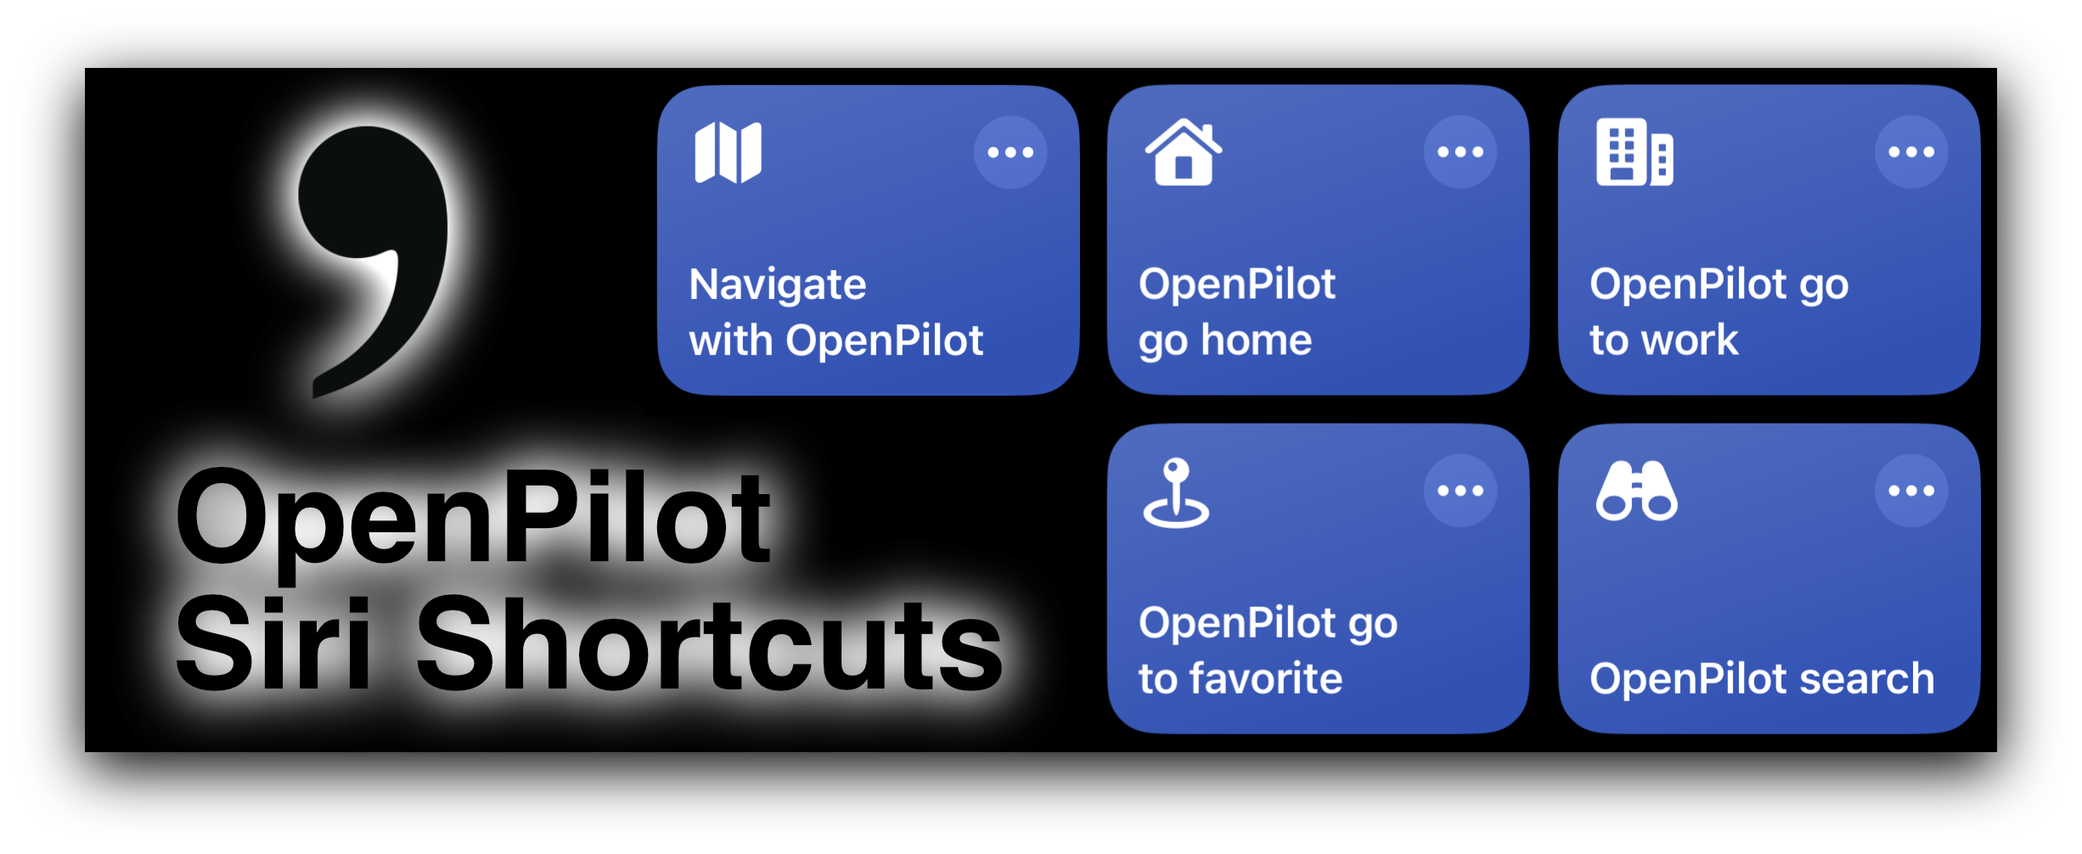
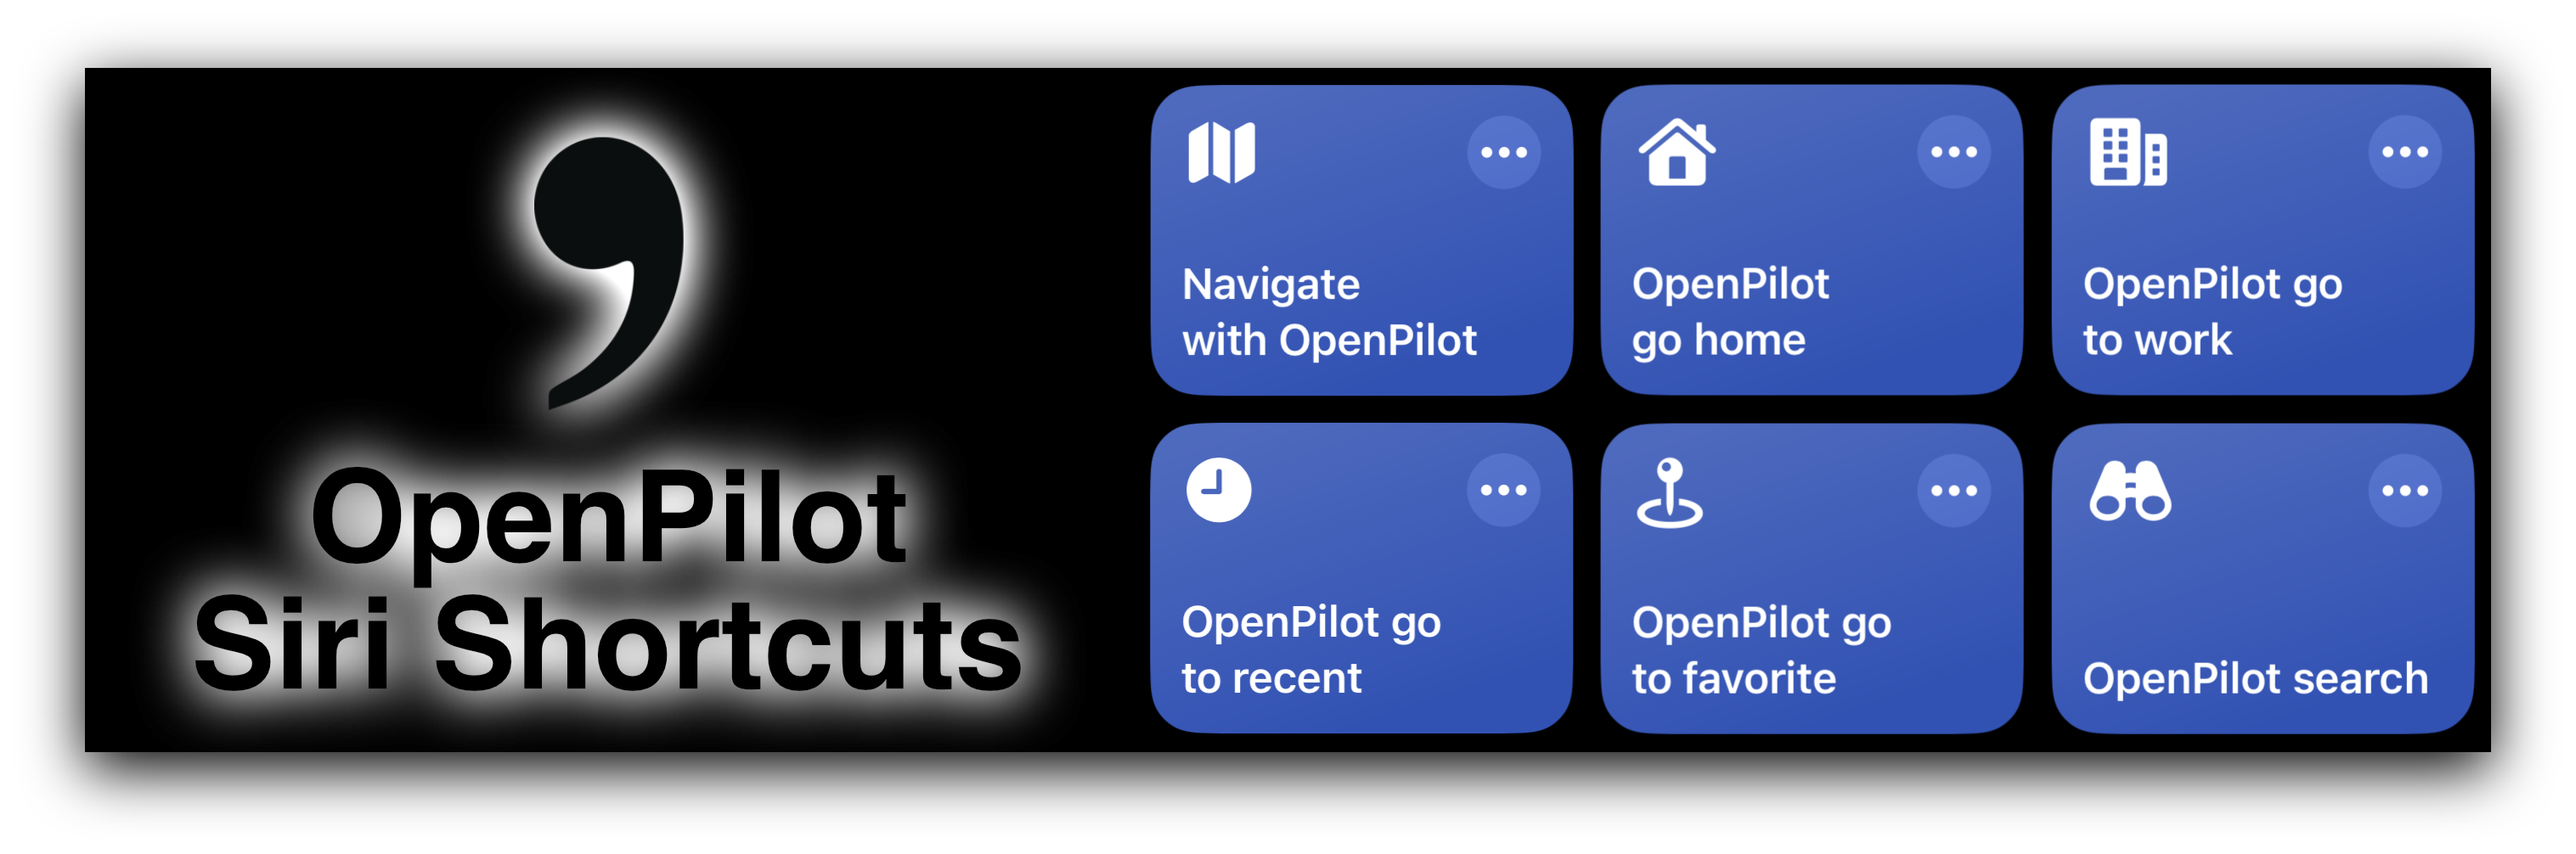
feat: add go to recent; improve favorites
Favorites now uses a specified address directly if provided,
otherwise it will fall back to searching for locations.

Changed region(s): [[0.0, 0.0616, 0.9918, 0.9245]]

diff --git a/README.md b/README.md
@@ -12,8 +12,8 @@ A set of iOS (and macOS) Shortcuts that let you quickly set the [OpenPilot navig
    * by saying "*(Hey) Siri, OpenPilot go to work*" or
    * by saying "*(Hey) Siri, OpenPilot go home*", or
    * by tapping the shortcut/widget/home screen icon
-4. **Go to favorite**
-   * by saying "*(Hey) Siri, OpenPilot go to favorite*", then selecting a favorite from the list by voice or by tapping
+4. **Go to favorite** by saying "*(Hey) Siri, OpenPilot go to favorite*", then selecting a favorite from the list by voice or by tapping
+5. **Go to recent** by saying "*(Hey) Siri, OpenPilot go to recent*", then selecting one of the recent locations in the list
 
 ## Installation
 
@@ -22,12 +22,14 @@ A set of iOS (and macOS) Shortcuts that let you quickly set the [OpenPilot navig
 3. Download and install the OpenPilot Siri Shortcuts by tapping the following links on your iPhone, iPad, or Mac
    * Complete the setup process for each shortcut (except *search* which has none). The data you'll provide is described after each install link
    * On first run, you'll be prompted to give permission for the shortcuts to do things
-   1. [Navigate on OpenPilot](https://www.icloud.com/shortcuts/c74d02d95ffe44f8881c1e01f094e3cd)🔗 `JWT token` `dongle id` `set multi-device behavior` `set default map app`
+   1. [Navigate on OpenPilot](https://www.icloud.com/shortcuts/29cb67a59bf24ca8aba0157c42fa1492)🔗 `JWT token` `dongle id` `set multi-device behavior` `set default map app` `set number of recent locations to show`
    2. [OpenPilot search](https://www.icloud.com/shortcuts/580c0ec4e8bd465cba4e2bb0e789ed4d)🔗
    3. [OpenPilot go home](https://www.icloud.com/shortcuts/d8af0b1046334311bcc20bee9769f081)🔗 `set home address`
    4. [OpenPilot go to work](https://www.icloud.com/shortcuts/e492a90d78794dcc95197d486f542ecf)🔗 `set work address`
-   5. [OpenPilot go to favorite](https://www.icloud.com/shortcuts/e4bae1d4d559472f835152228ff57558)🔗 `set one or more favorite places`
+   5. [OpenPilot go to favorite](https://www.icloud.com/shortcuts/1a8a7f4e49db4ae594ac145850abae25)🔗 `set one or more favorite places`
+   6. [OpenPilot go to recent](https://www.icloud.com/shortcuts/6ad037f369d747e9b4bd59da4645802d)🔗
 4. Run shortcuts ii though v immediately to acquire permissions and enable hands-free use
+
 * **If Siri will not recognize the word "OpenPilot" when you speak, you can "teach" it the word by [adding a new contact called OpenPilot, and by specifying a phonetic name for it](https://www.tapsmart.com/tips-and-tricks/youre-saying-wrong-teach-siri-new-words-pronunciations/)**
 
 ## Navigate with OpenPilot
@@ -86,3 +88,9 @@ A set of iOS (and macOS) Shortcuts that let you quickly set the [OpenPilot navig
 * When run, you can select one of the favorites from the list, verbally or by tapping (even in CarPlay 🚗)
 * There is no set format to use for the specified locations
 * The specified locations are used to search, and the top result is used. They need to be complete enough that the desired place will be the top result
+
+## Go to recent
+
+* Similar to *Go to favorites*, but you'll choose from a list of recent locations
+* This shortcut just calls *Navigate with OpenPilot* without proving a location, causing it to run in recent location mode
+* *Inspired by BitNotFound#5466 on Discord*
